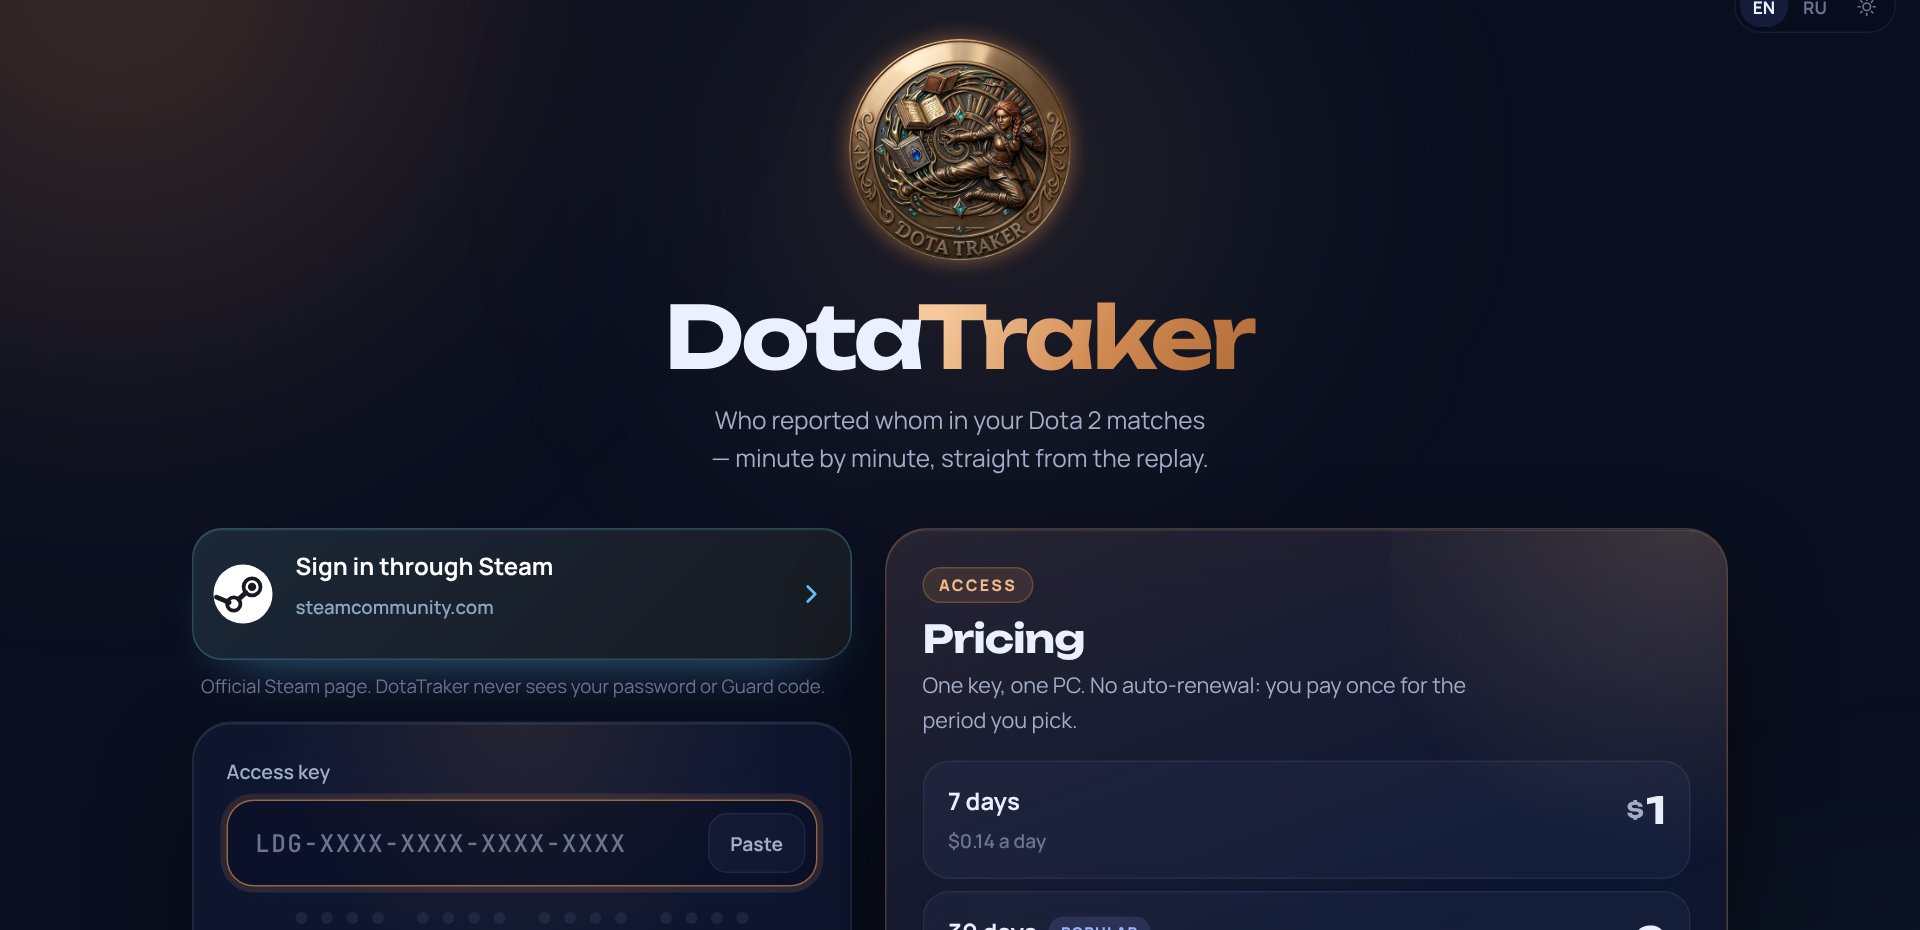
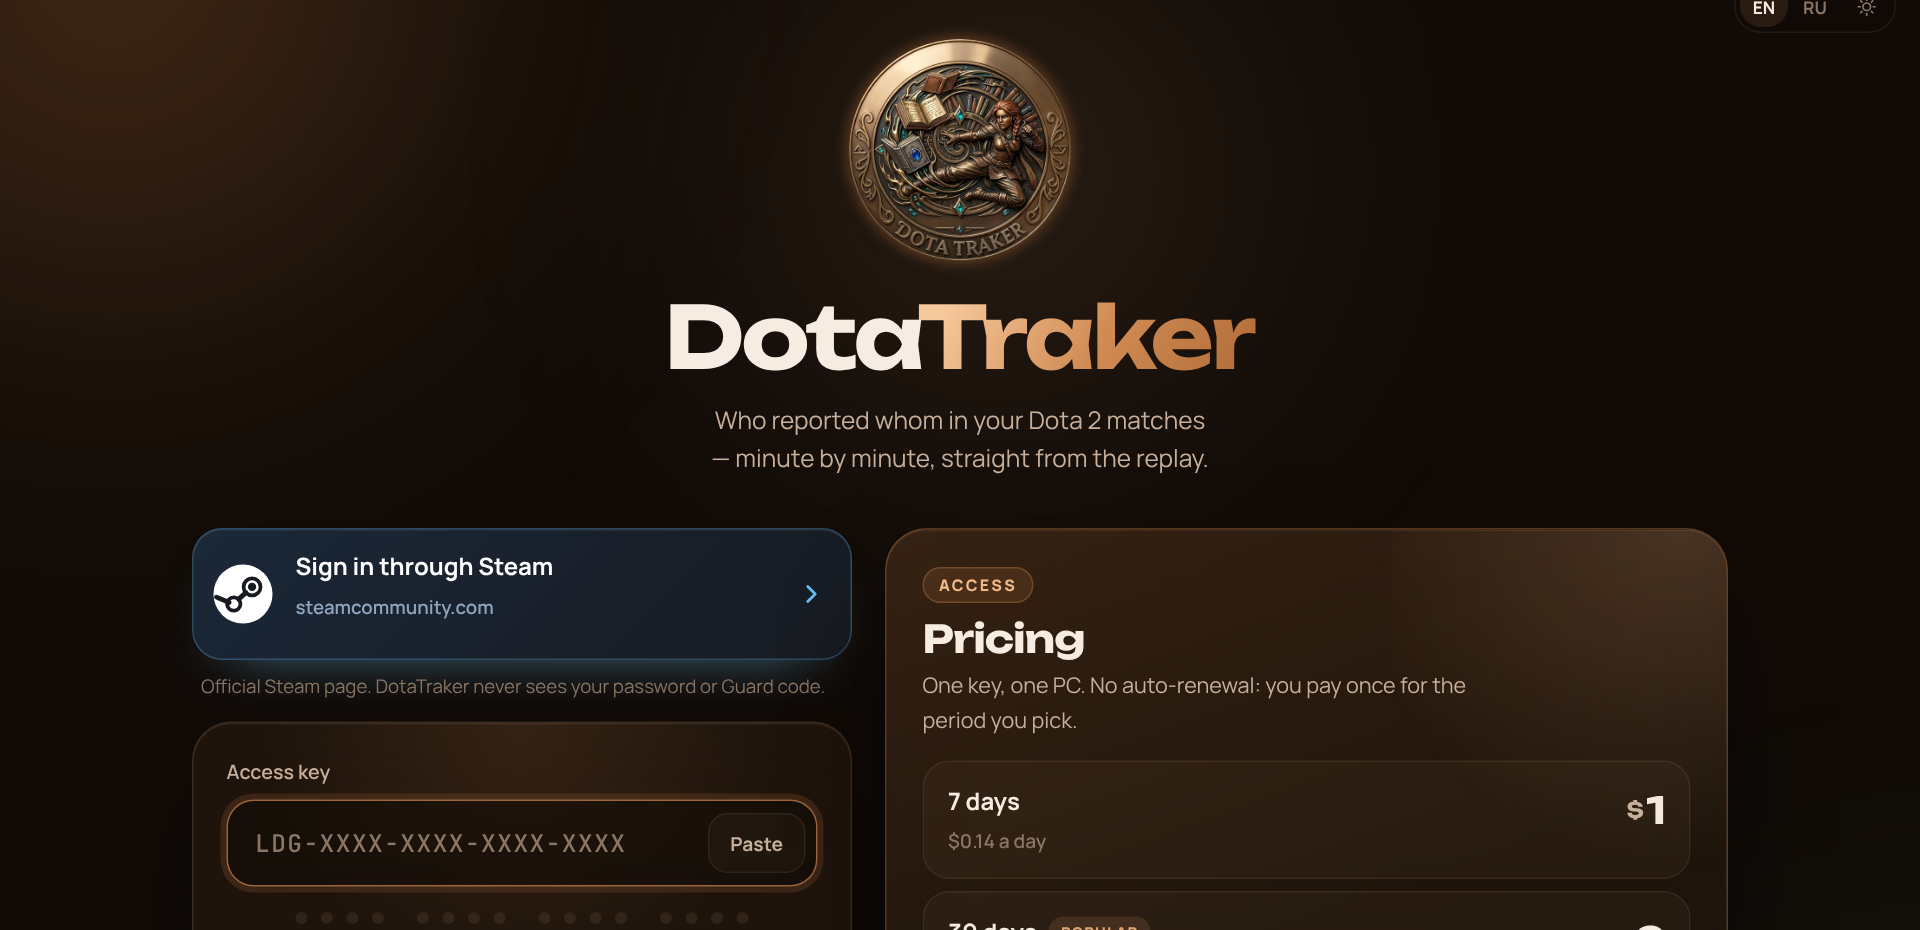
DotaTraker 2.1.1: bronze theme, replace stale engine automatically

diff --git a/static/style.css b/static/style.css
@@ -1,33 +1,33 @@
 /* ==========================================================================
    DotaTraker
-   Night-ink glass. Radiant teal and Dire red carry meaning (teammates and
-   enemies) and nothing else; periwinkle is the one interactive colour.
+   Dark bronze glass, copper accents to match the medallion. Radiant teal and
+   Dire red carry meaning (teammates and enemies) and nothing else.
    Unbounded for display, Manrope for reading, JetBrains Mono for IDs.
    ========================================================================== */
 
 :root {
-    --bg: #0a0f1f;
-    --bg-2: #0e1530;
-    --glass: rgba(20, 28, 56, 0.56);
-    --glass-strong: rgba(24, 33, 66, 0.82);
-    --glass-pop: rgba(17, 24, 50, 0.97);
-    --glass-soft: rgba(157, 180, 255, 0.05);
-    --glass-border: rgba(168, 188, 255, 0.13);
-    --glass-edge: rgba(255, 255, 255, 0.09);
-    --hair: rgba(168, 188, 255, 0.09);
-    --field: rgba(8, 12, 28, 0.42);
-    --field-border: rgba(168, 188, 255, 0.14);
-    --hover: rgba(157, 180, 255, 0.07);
+    --bg: #110b07;
+    --bg-2: #1a110b;
+    --glass: rgba(40, 27, 18, 0.58);
+    --glass-strong: rgba(46, 31, 21, 0.86);
+    --glass-pop: rgba(30, 20, 13, 0.97);
+    --glass-soft: rgba(240, 190, 140, 0.045);
+    --glass-border: rgba(240, 190, 140, 0.14);
+    --glass-edge: rgba(255, 228, 200, 0.08);
+    --hair: rgba(240, 190, 140, 0.09);
+    --field: rgba(14, 9, 6, 0.5);
+    --field-border: rgba(240, 190, 140, 0.15);
+    --hover: rgba(240, 190, 140, 0.07);
 
-    --text-primary: #eaf0ff;
-    --text-secondary: #a3adc7;
-    --text-tertiary: #6b7591;
+    --text-primary: #f6ece2;
+    --text-secondary: #c6af9b;
+    --text-tertiary: #8b7664;
 
-    --accent: #9db4ff;
-    --accent-strong: #c6d2ff;
-    --accent-ink: #0b1230;
-    --accent-soft: rgba(157, 180, 255, 0.15);
-    --accent-line: rgba(157, 180, 255, 0.55);
+    --accent: #e3a46f;
+    --accent-strong: #f6c99c;
+    --accent-ink: #2a1405;
+    --accent-soft: rgba(227, 164, 111, 0.15);
+    --accent-line: rgba(227, 164, 111, 0.55);
 
     --radiant: #3ddbb0;
     --dire: #ff5a6e;
@@ -37,14 +37,14 @@
     --aegis-soft: rgba(242, 196, 109, 0.15);
 
     /* canvases (timeline graphs) */
-    --cv-bg: #0c1329;
-    --cv-row: #111a36;
-    --cv-line: #25304f;
-    --cv-grid: #222c4a;
-    --cv-chip: #2a3558;
-    --cv-halo: #0a0f1f;
+    --cv-bg: #150e09;
+    --cv-row: #1e150e;
+    --cv-line: #3d2d20;
+    --cv-grid: #30241a;
+    --cv-chip: #44321f;
+    --cv-halo: #110b07;
 
-    --shadow: 0 1px 0 var(--glass-edge) inset, 0 24px 60px -30px rgba(0, 0, 0, 0.85);
+    --shadow: 0 1px 0 var(--glass-edge) inset, 0 24px 60px -30px rgba(0, 0, 0, 0.9);
     --shadow-pop: 0 1px 0 var(--glass-edge) inset, 0 30px 80px -24px rgba(0, 0, 0, 0.9);
 
     --r-xl: 26px;
@@ -139,9 +139,9 @@ button { font-family: inherit; }
     position: absolute; border-radius: 50%; filter: blur(90px); opacity: 0;
     animation: aurora-in 1.6s var(--ease) 0.1s forwards, drift 38s ease-in-out infinite alternate;
 }
-.aurora .a1 { width: 54vmax; height: 46vmax; left: -16vmax; top: -18vmax; background: radial-gradient(circle at 40% 40%, rgba(61, 219, 176, 0.32), transparent 62%); }
-.aurora .a2 { width: 50vmax; height: 50vmax; right: -18vmax; bottom: -22vmax; background: radial-gradient(circle at 60% 60%, rgba(255, 90, 110, 0.26), transparent 62%); animation-delay: 0.2s, -12s; }
-.aurora .a3 { width: 40vmax; height: 36vmax; left: 34vw; top: 18vh; background: radial-gradient(circle, rgba(124, 140, 255, 0.2), transparent 64%); animation-delay: 0.35s, -24s; }
+.aurora .a1 { width: 54vmax; height: 46vmax; left: -16vmax; top: -18vmax; background: radial-gradient(circle at 40% 40%, rgba(214, 132, 72, 0.32), transparent 62%); }
+.aurora .a2 { width: 50vmax; height: 50vmax; right: -18vmax; bottom: -22vmax; background: radial-gradient(circle at 60% 60%, rgba(160, 60, 40, 0.28), transparent 62%); animation-delay: 0.2s, -12s; }
+.aurora .a3 { width: 40vmax; height: 36vmax; left: 34vw; top: 18vh; background: radial-gradient(circle, rgba(242, 196, 109, 0.2), transparent 64%); animation-delay: 0.35s, -24s; }
 html[data-theme="light"] .aurora .a1 { background: radial-gradient(circle at 40% 40%, rgba(14, 159, 122, 0.2), transparent 62%); }
 html[data-theme="light"] .aurora .a2 { background: radial-gradient(circle at 60% 60%, rgba(224, 58, 82, 0.15), transparent 62%); }
 html[data-theme="light"] .aurora .a3 { background: radial-gradient(circle, rgba(74, 99, 224, 0.14), transparent 64%); }
@@ -276,7 +276,7 @@ html:not(.js) .workflow-tab.active, html:not(.js) .graph-view-tab.active { backg
     width: 26px; height: 26px; border-radius: 50%; flex-shrink: 0;
     display: grid; place-items: center;
     background: linear-gradient(140deg, var(--radiant), var(--accent) 55%, var(--dire));
-    color: #0a0f1f; font: 700 0.7rem var(--font-display);
+    color: #110b07; font: 700 0.7rem var(--font-display);
 }
 .account-chip .who { overflow: hidden; text-overflow: ellipsis; white-space: nowrap; }
 .account-chip .left { color: var(--text-tertiary); font-weight: 600; white-space: nowrap; }
@@ -315,7 +315,7 @@ html:not(.js) .workflow-tab.active, html:not(.js) .graph-view-tab.active { backg
 /* soft light that follows the pointer across a glass card */
 .card::before, .tile::before {
     content: ""; position: absolute; inset: 0; border-radius: inherit; pointer-events: none;
-    background: radial-gradient(420px circle at var(--mx, 50%) var(--my, 0%), rgba(157, 180, 255, 0.09), transparent 45%);
+    background: radial-gradient(420px circle at var(--mx, 50%) var(--my, 0%), rgba(227, 164, 111, 0.09), transparent 45%);
     opacity: 0; transition: opacity 0.4s;
 }
 .card:hover::before, .tile:hover::before { opacity: 1; }

diff --git a/gate/gate.js b/gate/gate.js
@@ -431,7 +431,7 @@ function portOpen(host, port) {
 function ensureDecoy() {
     const dir = path.join(ENGINE_DIR, 'static');
     const file = path.join(dir, 'index.html');
-    const html = `<!doctype html><meta charset="utf-8"><meta http-equiv="refresh" content="0; url=http://localhost:${settings.port}/"><title>DotaTraker</title><body style="font:15px system-ui;background:#0a0f1f;color:#eaf0ff;display:grid;place-items:center;height:100vh;margin:0"><a style="color:#9db4ff" href="http://localhost:${settings.port}/">Open DotaTraker</a>`;
+    const html = `<!doctype html><meta charset="utf-8"><meta http-equiv="refresh" content="0; url=http://localhost:${settings.port}/"><title>DotaTraker</title><body style="font:15px system-ui;background:#110b07;color:#eaf0ff;display:grid;place-items:center;height:100vh;margin:0"><a style="color:#e3a46f" href="http://localhost:${settings.port}/">Open DotaTraker</a>`;
     try { fs.mkdirSync(dir, { recursive: true }); if (!fs.existsSync(file) || fs.readFileSync(file, 'utf8') !== html) fs.writeFileSync(file, html); } catch (_) {}
 }
 function supervise(name, file, extraEnv) {
@@ -458,12 +458,34 @@ function supervise(name, file, extraEnv) {
     };
     run();
 }
+function engineRevNow() { try { return fs.readFileSync(path.join(ENGINE_DIR, 'engine-rev.txt'), 'utf8').trim(); } catch (_) { return ''; } }
+function winPortOwner(port) {
+    try {
+        const ps = `$c=Get-NetTCPConnection -LocalPort ${Number(port)} -State Listen -ErrorAction SilentlyContinue | Select-Object -First 1; if($c){ $p=Get-Process -Id $c.OwningProcess -ErrorAction SilentlyContinue; Write-Output ([string]$c.OwningProcess + '|' + $p.Path) }`;
+        const out = execFileSync('powershell', ['-NoProfile', '-NonInteractive', '-Command', ps], { windowsHide: true, timeout: 20000 }).toString().trim();
+        const [pid, file] = out.split('|');
+        return pid && /^\d+$/.test(pid) ? { pid: Number(pid), path: file || '' } : null;
+    } catch (_) { return null; }
+}
 async function startEngine() {
     if (process.env.LEDGER_NO_ENGINE === '1') return;
     const up = new URL(settings.upstream);
     if (!/^(127\.0\.0\.1|localhost)$/.test(up.hostname)) return;
+    // an engine left running (often from an older DotaTraker folder) would keep the old parser: replace it
+    if (process.platform === 'win32' && fs.existsSync(engineExe('server'))) {
+        let killed = false;
+        for (const port of [Number(up.port || 80), 8082]) {
+            const o = winPortOwner(port);
+            if (o && /\\(server|bot)\.exe$/i.test(o.path)) {
+                console.log(`  Engine:  stopping the engine already running on port ${port} (${o.path})`);
+                try { execFileSync('taskkill', ['/PID', String(o.pid), '/F'], { windowsHide: true, stdio: 'ignore', timeout: 15000 }); killed = true; } catch (_) {}
+            }
+        }
+        if (killed) await sleep(1500);
+    }
     if (fs.existsSync(engineExe('server')) && !(await portOpen(up.hostname, up.port || 80))) await ensureEngine();
-    if (await portOpen(up.hostname, up.port || 80)) { console.log('  Engine:  already running'); return; }
+    if (await portOpen(up.hostname, up.port || 80)) { console.log('  Engine:  already running (not started by DotaTraker, it may be an old version)'); return; }
+    console.log(`  Engine:  ${engineRevNow() === ENGINE_REV ? 'up to date (parser manta 1.5.1)' : 'OLD version, could not update: see the message above'}`);
     if (!fs.existsSync(engineExe('server'))) {
         console.log('  ! The replay engine is missing. Run setup.bat first.');
         return;
@@ -1000,7 +1022,7 @@ function meView() {
         label: l.label || '', tail: l.tail || '', status: l.status || '', expiresAt: l.expiresAt || null,
         activatedAt: l.activatedAt || null, maxDevices: l.maxDevices || 1, devices: l.devices || 1,
         offline: !!lic.offline, lastOk: lic.lastOk || 0, telegram: TELEGRAM, github: GITHUB, version: VERSION, serverTime: now(),
-        steam: steamView(), update: updateView()
+        steam: steamView(), update: updateView(), engine: { rev: engineRevNow(), want: ENGINE_REV }
     };
 }
 

diff --git a/gate/public/login.html b/gate/public/login.html
@@ -7,11 +7,11 @@
     <meta name="color-scheme" content="dark light">
     <title>DotaTraker — Sign in</title>
     <link rel="icon" href="/img/logo-64.png" type="image/png">
-    <link rel="stylesheet" href="/fonts.css?v=21">
-    <link rel="stylesheet" href="/style.css?v=21">
-    <link rel="stylesheet" href="/gate/gate.css?v=21">
-    <script src="/i18n.js?v=21"></script>
-    <script src="/ui.js?v=21"></script>
+    <link rel="stylesheet" href="/fonts.css?v=22">
+    <link rel="stylesheet" href="/style.css?v=22">
+    <link rel="stylesheet" href="/gate/gate.css?v=22">
+    <script src="/i18n.js?v=22"></script>
+    <script src="/ui.js?v=22"></script>
 </head>
 <body class="gate">
     <div class="aurora copper" aria-hidden="true"><i class="a1"></i><i class="a2"></i><i class="a3"></i></div>
@@ -85,6 +85,6 @@
         </ul>
         <p class="gate-foot">Works on one computer per key. Keys are checked online, then DotaTraker keeps working offline for up to 3 days.</p>
     </main>
-    <script src="/gate/login.js?v=21"></script>
+    <script src="/gate/login.js?v=22"></script>
 </body>
 </html>

diff --git a/gate/public/gate.css b/gate/public/gate.css
@@ -154,7 +154,7 @@ html[data-theme="light"] .aurora.copper .a1 { background: radial-gradient(circle
 .price-row .pr-sub { grid-column: 1; font-size: 0.8rem; color: var(--text-tertiary); font-weight: 600; }
 .price-row .pr-price { grid-row: 1 / span 2; grid-column: 2; font: 700 1.55rem/1 var(--font-display); letter-spacing: -0.02em; display: flex; align-items: flex-start; gap: 2px; }
 .price-row .pr-price small { font-size: 0.9rem; margin-top: 2px; color: var(--text-secondary); }
-.pr-tag { padding: 3px 8px; border-radius: 999px; font: 800 0.62rem var(--font-ui); letter-spacing: 0.08em; text-transform: uppercase; color: #9db4ff; background: rgba(157, 180, 255, 0.14); }
+.pr-tag { padding: 3px 8px; border-radius: 999px; font: 800 0.62rem var(--font-ui); letter-spacing: 0.08em; text-transform: uppercase; color: #e3a46f; background: rgba(227, 164, 111, 0.14); }
 .price-row.best {
     background: linear-gradient(120deg, rgba(241, 185, 138, 0.22), rgba(208, 138, 82, 0.1) 55%, rgba(208, 138, 82, 0.04));
     border-color: rgba(214, 140, 84, 0.65);

diff --git a/static/index.html b/static/index.html
@@ -7,10 +7,10 @@
     <meta name="color-scheme" content="dark light">
     <title>DotaTraker — Dota 2 report timeline</title>
     <link rel="icon" href="/img/logo-64.png" type="image/png">
-    <link rel="stylesheet" href="fonts.css?v=21">
-    <link rel="stylesheet" href="style.css?v=21">
-    <script src="i18n.js?v=21"></script>
-    <script src="ui.js?v=21"></script>
+    <link rel="stylesheet" href="fonts.css?v=22">
+    <link rel="stylesheet" href="style.css?v=22">
+    <script src="i18n.js?v=22"></script>
+    <script src="ui.js?v=22"></script>
 </head>
 
 <body>
@@ -521,9 +521,9 @@
     </div>
 
     <script src="vendor/chart.umd.min.js?v=4.4.0"></script>
-    <script src="app.js?v=21"></script>
-    <script src="history.js?v=21"></script>
-    <script src="ledger.js?v=21"></script>
+    <script src="app.js?v=22"></script>
+    <script src="history.js?v=22"></script>
+    <script src="ledger.js?v=22"></script>
 </body>
 
 </html>

diff --git a/static/ui.js b/static/ui.js
@@ -240,7 +240,7 @@
             bg: v('--cv-bg', '#0d1326'), row: v('--cv-row', '#121a33'), line: v('--cv-line', '#26304d'), grid: v('--cv-grid', '#2b3657'),
             text: v('--text-primary', '#eaf0ff'), muted: v('--text-secondary', '#a3adc7'), faint: v('--text-tertiary', '#6b7591'),
             chip: v('--cv-chip', '#2b3657'), chipText: v('--text-primary', '#eaf0ff'),
-            good: v('--radiant', '#3ddbb0'), bad: v('--dire', '#ff5a6e'), warn: v('--aegis', '#f2c46d'), accent: v('--accent', '#9db4ff'),
+            good: v('--radiant', '#3ddbb0'), bad: v('--dire', '#ff5a6e'), warn: v('--aegis', '#f2c46d'), accent: v('--accent', '#e3a46f'),
             halo: v('--cv-halo', '#0b1020'), font: v('--font-ui', 'system-ui').split(',')[0].replace(/['"]/g, '').trim() || 'system-ui'
         };
     }
